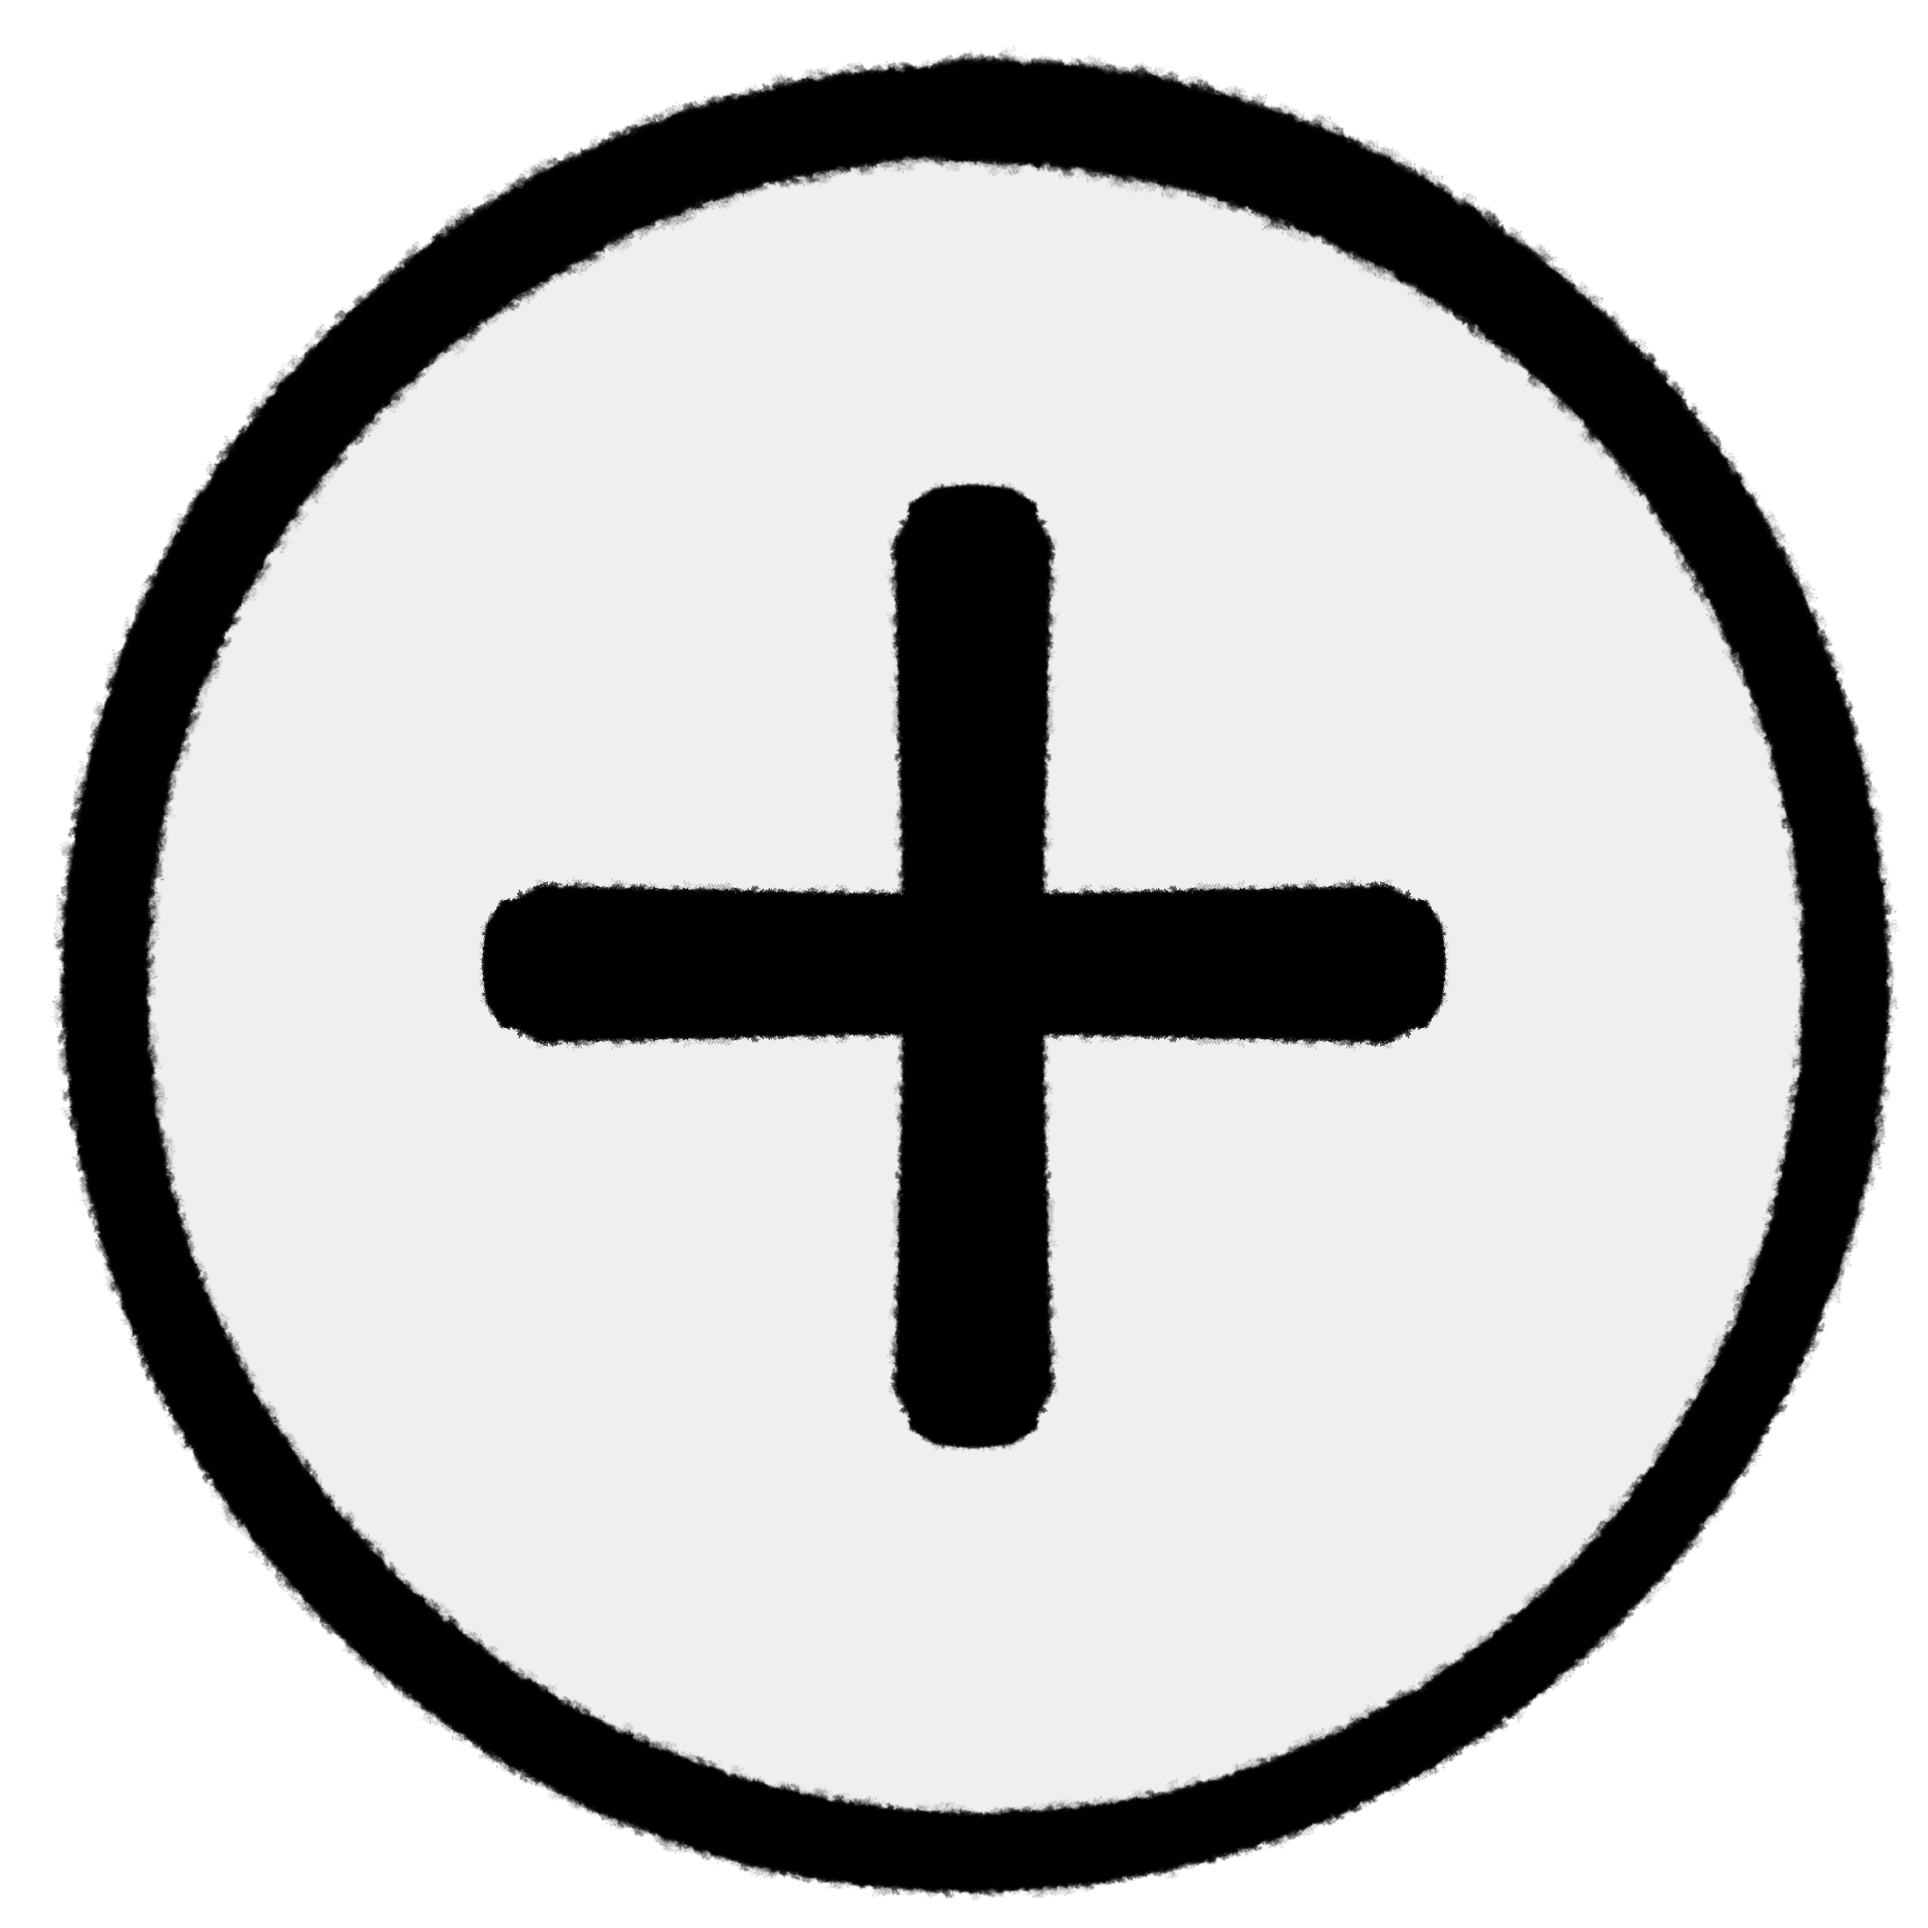
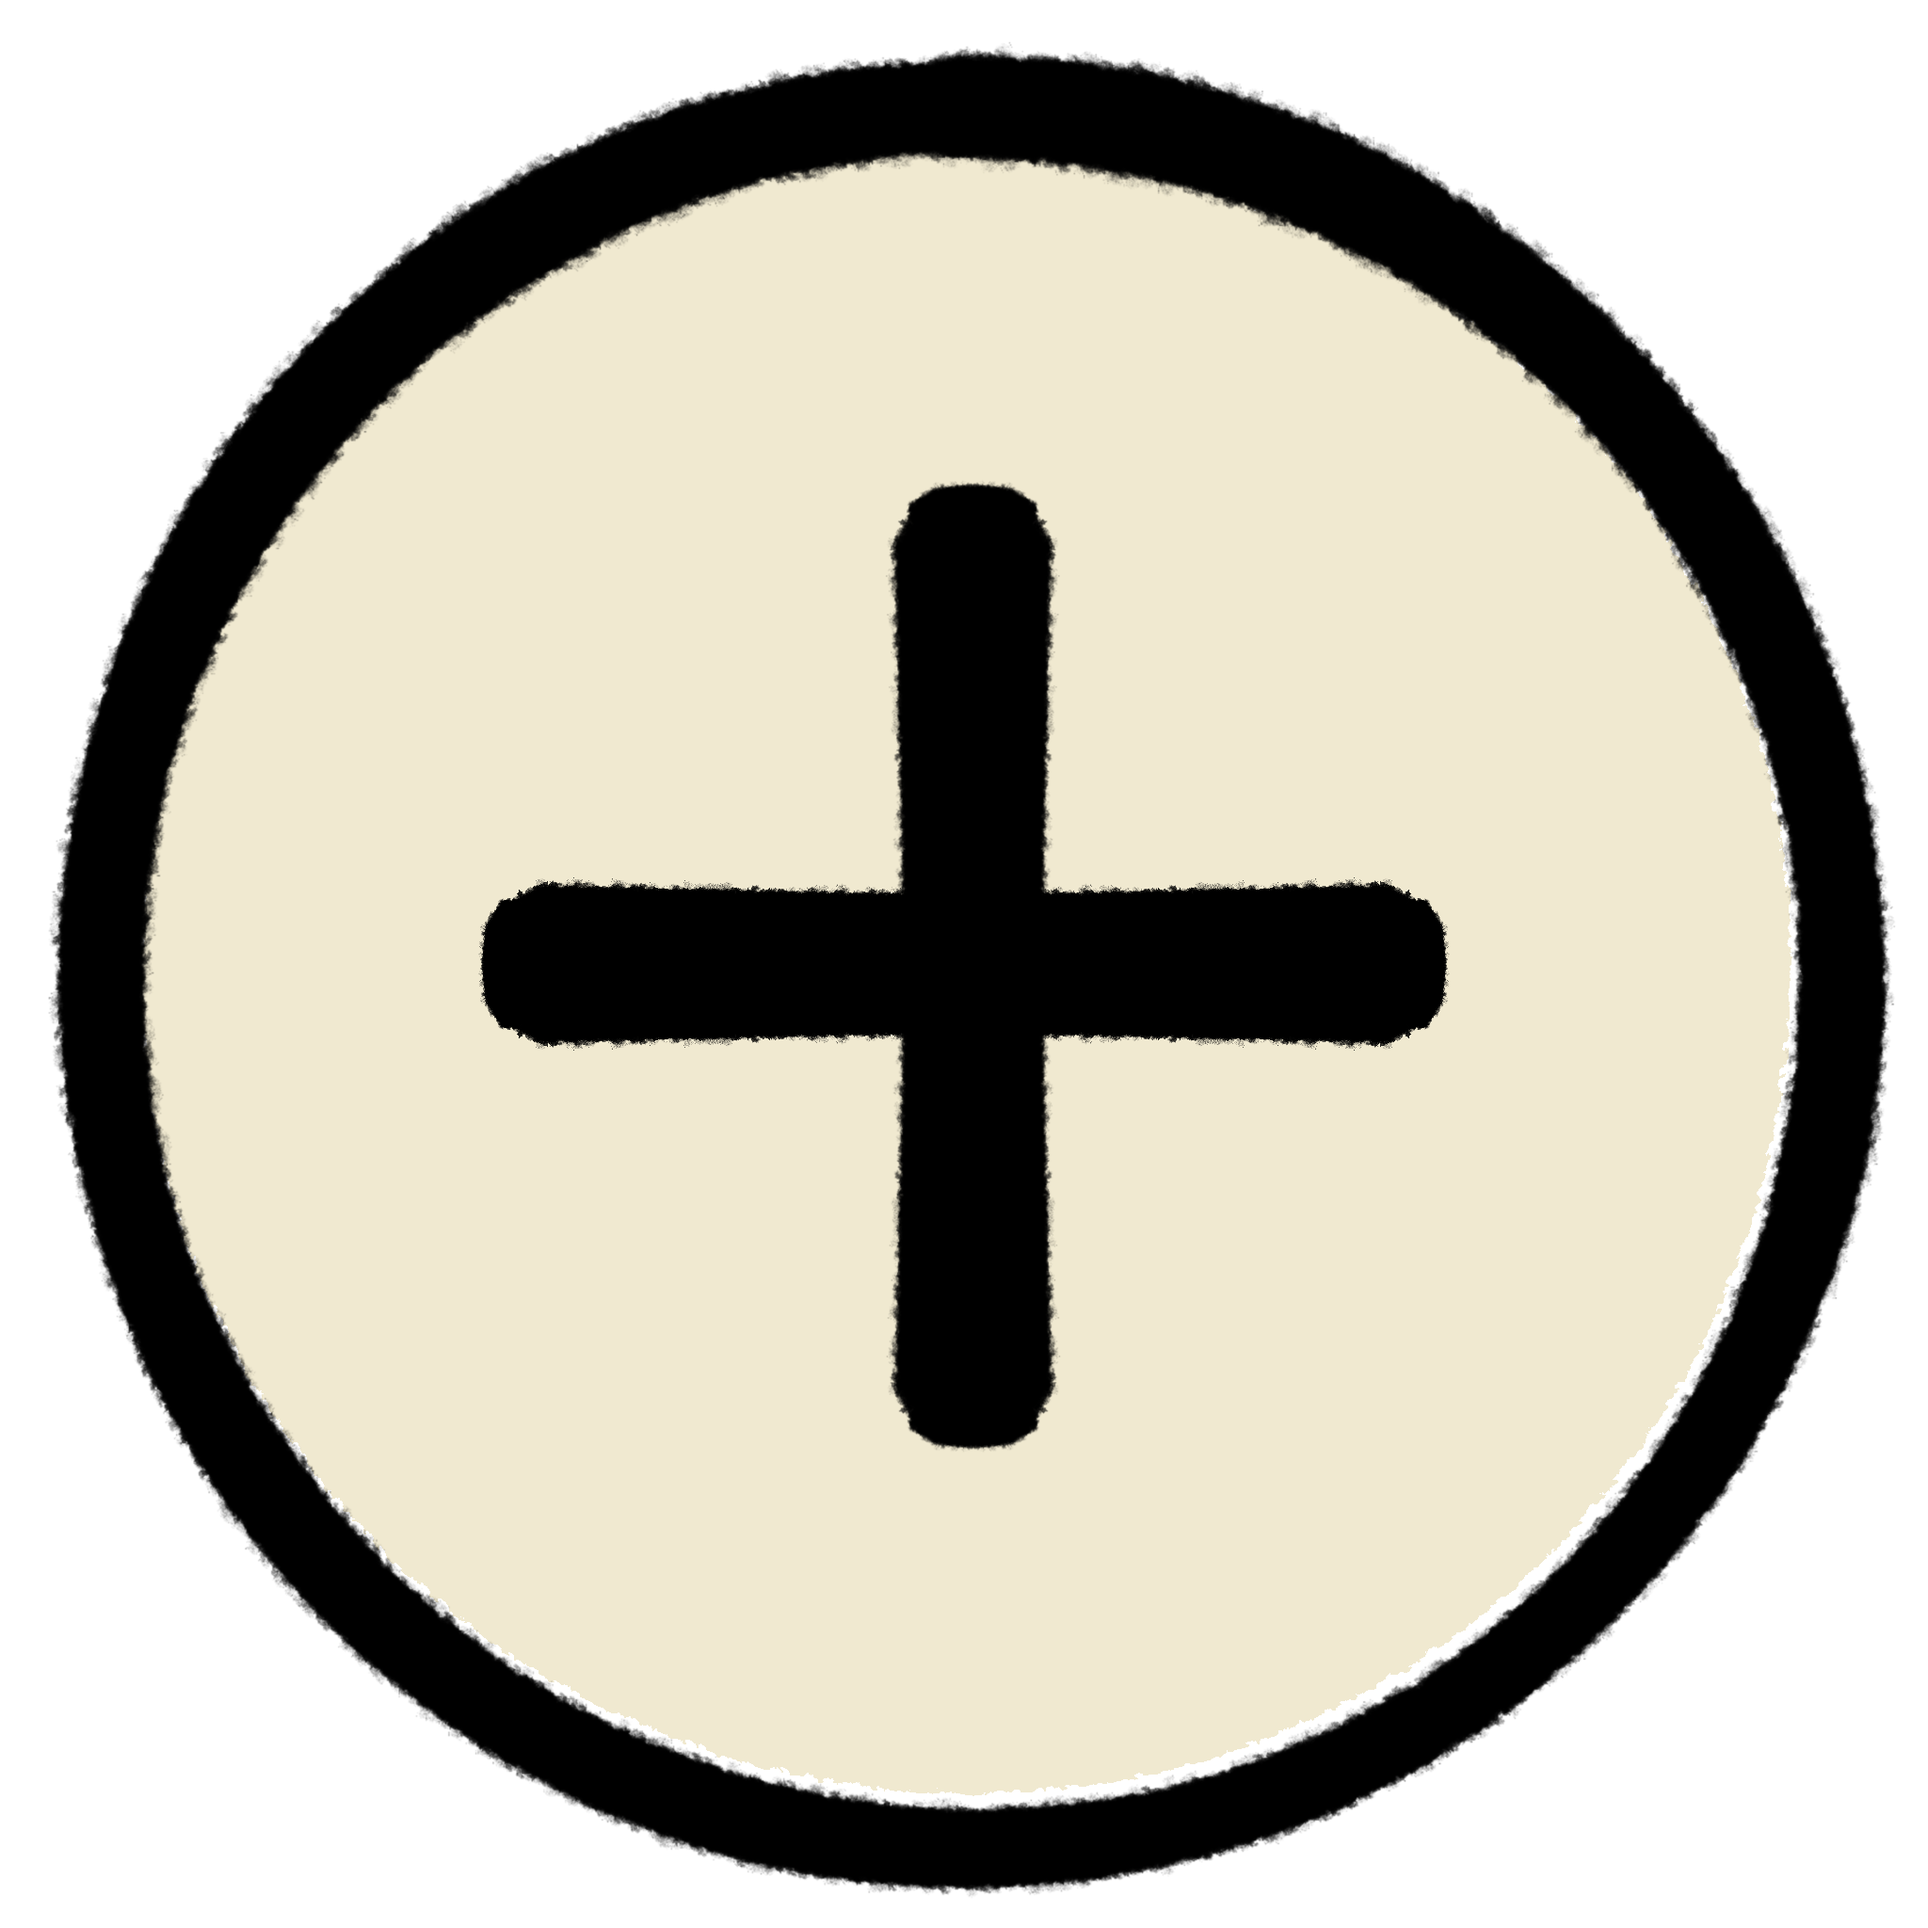
Implemented more functions

diff --git a/guiObjects/EditorScreen.js b/guiObjects/EditorScreen.js
@@ -1,14 +1,15 @@
 class EditorScreen extends GUI {
     constructor() {
         super();
-        this.itemsAvailable = [ConstantNode, AddNode, DivNode, SubNode, InputNode, OutputNode]
+        this.itemsAvailable = [ConstantNode, AddNode, DivNode, SubNode, MultNode, FactorialNode,InputNode, OutputNode]
         this.tableObjects = []
+        this.inputs = []
         this.itemSelected = false;
         this.itemTypeSelected = '';
         this.tableXOffset = 0;
         this.tableYOffset = 0;
     }
-    Reset(itemsAvailable = [ConstantNode]) {
+    Reset(itemsAvailable = [ConstantNode], inputs = []) {
         this.itemsAvailable = itemsAvailable;
         this.tableObjects = []
         this.tableXOffset = 0;
@@ -18,9 +19,9 @@ class EditorScreen extends GUI {
         //deselect item if let go
         this.UpdateItemSelection(x, y);
         //draw background
-        background(241, 234, 210)
         push()
         
+        background(241, 234, 210)
         for (let i = -OFFSET.x + (frameCount / 10 % 50); i < 800 + OFFSET.x; i += 50) {
             stroke(230, 222, 194)
             strokeWeight(25)
@@ -35,7 +36,7 @@ class EditorScreen extends GUI {
         for (let i = 0; i < this.tableObjects.length; i++) {
             this.tableObjects[i].DrawCircuitLayer2();
         }
-        fill (255)
+        fill (195, 66, 59)
         for (let i = 0; i < this.tableObjects.length; i++) {
             this.tableObjects[i].Draw();
             if ((this.itemTypeSelected == "outputNode" && this.itemSelected) || !this.itemSelected) {
@@ -138,7 +139,7 @@ class EditorScreen extends GUI {
                 this.itemSelected.y = y;
             } else if (this.itemTypeSelected == "inputNode") {
                 push()
-                stroke(0)
+                stroke(195, 66, 59)
                 strokeWeight(5)
                 line(
                     this.itemSelected.obj.GetInputPosition(this.itemSelected.idx).x + this.tableXOffset,
@@ -149,8 +150,8 @@ class EditorScreen extends GUI {
                 pop()
             } else if (this.itemTypeSelected == "outputNode") {
                 push()
-                stroke(0)
-                strokeWeight(5)
+                stroke(195, 66, 59)
+                strokeWeight(8)
                 line(
                     this.itemSelected.obj.GetOutputPosition(this.itemSelected.idx).x + this.tableXOffset,
                     this.itemSelected.obj.GetOutputPosition(this.itemSelected.idx).y + this.tableYOffset,

diff --git a/editorObjects/NodeTypes/ConstantNode.js b/editorObjects/NodeTypes/ConstantNode.js
@@ -1,28 +1,28 @@
 class ConstantNode extends EditorNode {
     constructor(x, y) {
-        super(x, y, 80, 80, Assets.constantNode, [], ["Constant number"]);
+        super(x, y, 100, 40, Assets.constantNode, [], ["Constant number"]);
         this.value = 1;
     }
     static getSymbol() {
         return Assets.constantNode;
     }
     static getWidth() {
-        return 80;
+        return 100;
     }
     static getHeight() {
-        return 80;
+        return 40;
     }
-    hasInteraction(x,y){
-        if(x < -20 && y < 0){
+    hasInteraction(x, y) {
+        if (x < -20) {
             this.value--;
-        }else if(x > 20 && y < 0){
+        } else if (x > 20) {
             this.value++;
-        }else{
+        } else {
             return false;
         }
-        if(this.value < -99){
+        if (this.value < -99) {
             this.value = -99
-        }else if(this.value > 99){
+        } else if (this.value > 99) {
             this.value = 99;
         }
         return true;
@@ -32,21 +32,21 @@ class ConstantNode extends EditorNode {
         image(this.getSymbol(), x, y, this.getWidth(), this.getHeight())
         textSize(25)
         textFont("Courier New")
-        fill (255)
-        text(1, x + this.getWidth()/2, y + this.getHeight()/2)
+        fill(255)
+        text(1, x + this.getWidth() / 2, y + this.getHeight() / 2 + 6)
         pop()
     }
-    getFunction(){
+    getFunction() {
         let val = this.value
-        return ((inputs) => {return [val]})
+        return ((inputs) => { return [val] })
     }
     Draw() {
-        push ()
+        push()
         image(this.image, this.x - this.width / 2, this.y - this.height / 2, this.width, this.height)
         textSize(25)
         textFont("Courier New")
-        fill (255)
-        text(this.value, this.x, this.y)
+        fill(255)
+        text(this.value, this.x, this.y + 6)
         pop()
 
     }

diff --git a/editorObjects/NodeTypes/FactorialNode.js b/editorObjects/NodeTypes/FactorialNode.js
@@ -1,0 +1,23 @@
+class FactorialNode extends EditorNode {
+    constructor(x, y) {
+        super(x, y, 40, 40, Assets.factorialNode, ["Input"], ["Output"]);
+    }
+    static getSymbol() {
+        return Assets.factorialNode;
+    }
+    static getWidth() {
+        return 40;
+    }
+    static getHeight() {
+        return 40;
+    }
+    getFunction() {
+        return ((inputs) => {
+            let prod = 1;
+            for (let i = 1; i <= inputs[0]; i++) {
+                prod *= i;
+            }
+            return [prod]
+        })
+    }
+}

diff --git a/Assets.js b/Assets.js
@@ -7,6 +7,10 @@
         this.inputNode = loadImage("assets/input.png")
         this.outputNode = loadImage("assets/output.png")
         this.constantNode = loadImage("assets/constant.png")
+        this.factorialNode = loadImage("assets/factorialCircuit.png")
+        this.chooseNode = loadImage("assets/chooseCircuit.png")
+        this.expNode = loadImage("assets/factorialCircuit.png")
+        this.multNode = loadImage("assets/timesCircuit.png")
     }
     static setVolume(volume){
     }

diff --git a/editorObjects/NodeTypes/ChooseNode.js b/editorObjects/NodeTypes/ChooseNode.js
@@ -1,0 +1,17 @@
+class ChooseNode extends EditorNode {
+    constructor(x, y) {
+        super(x, y, 40, 40, Assets.multNode, ["Factor #1", "Factor #2"], ["Product"]);
+    }
+    static getSymbol(){
+        return Assets.multNode;
+    }
+    static getWidth(){
+        return 40;
+    }
+    static getHeight(){
+        return 40;
+    }
+    getFunction(){
+        return ((inputs) => {return [inputs[0]*inputs[1]]})
+    }
+}

diff --git a/editorObjects/NodeTypes/MultNode.js b/editorObjects/NodeTypes/MultNode.js
@@ -1,0 +1,17 @@
+class MultNode extends EditorNode {
+    constructor(x, y) {
+        super(x, y, 40, 40, Assets.multNode, ["Factor #1", "Factor #2"], ["Product"]);
+    }
+    static getSymbol(){
+        return Assets.multNode;
+    }
+    static getWidth(){
+        return 40;
+    }
+    static getHeight(){
+        return 40;
+    }
+    getFunction(){
+        return ((inputs) => {return [inputs[0]*inputs[1]]})
+    }
+}

diff --git a/index.html b/index.html
@@ -20,6 +20,8 @@
     <script src="editorObjects/NodeTypes/SubNode.js"></script>
     <script src="editorObjects/NodeTypes/InputNode.js"></script>
     <script src="editorObjects/NodeTypes/OutputNode.js"></script>
+    <script src="editorObjects/NodeTypes/MultNode.js"></script>
+    <script src="editorObjects/NodeTypes/FactorialNode.js"></script>
 </head>
 
 <body>
